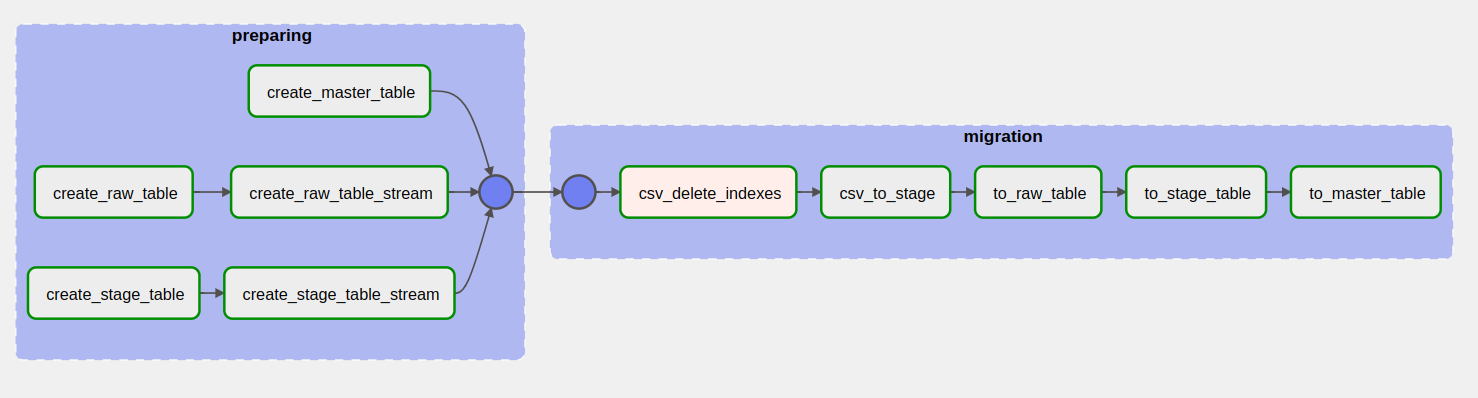
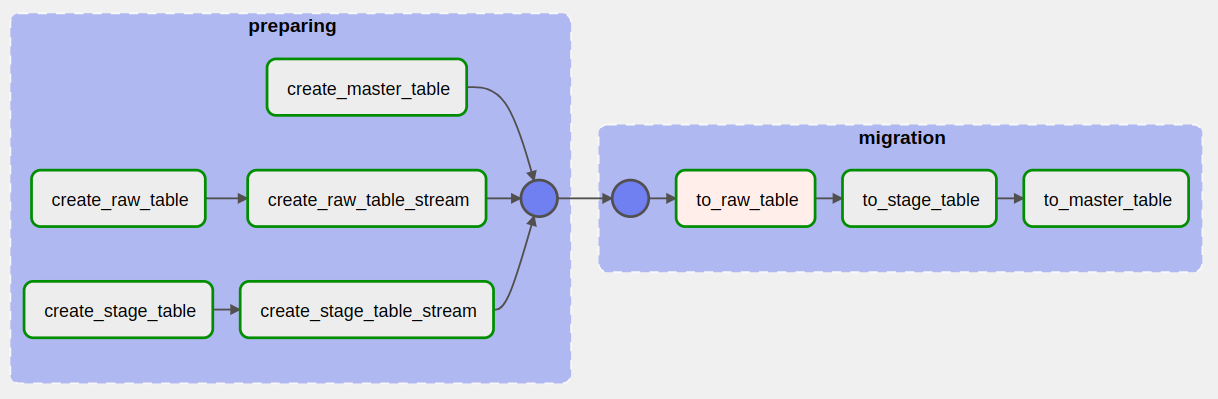
Refactoring

Changed region(s): [[0.0, 0.0302, 0.9984, 0.9648], [0.6552, 0.3015, 0.8112, 0.3618], [0.5928, 0.3015, 0.624, 0.3317]]

diff --git a/task8/dags/dag_migration_with_csv.py b/task8/dags/dag_migration_with_csv.py
@@ -1,0 +1,117 @@
+import pandas as pd
+
+from airflow.models import Variable
+from datetime import datetime
+from airflow.decorators import dag, task
+from airflow.utils.task_group import TaskGroup
+from airflow.providers.snowflake.operators.snowflake import SnowflakeOperator
+
+
+AIRFLOW_HOME = Variable.get("AIRFLOW_HOME")
+RAW_DATA_FILE = Variable.get("RAW_DATA_FILE")
+OUTPUT_FILE = Variable.get("OUTPUT_FILE")
+DATA_PATH = Variable.get("DATA_PATH")
+DDL_PATH = Variable.get("DDL_PATH")
+DML_PATH = Variable.get("DML_PATH")
+
+SNOWFLAKE_CONN_ID = Variable.get("SNOWFLAKE_CONN_ID")
+SNOWFLAKE_SCHEMA = Variable.get("SNOWFLAKE_SCHEMA")
+SNOWFLAKE_DATABASE = Variable.get("SNOWFLAKE_DATABASE")
+SNOWFLAKE_ROLE = Variable.get("SNOWFLAKE_ROLE")
+
+default_args = {
+    "owner": "airflow",
+    "start_date": datetime(2023, 5, 4),
+    "retries": 1,
+    "snowflake_conn_id": SNOWFLAKE_CONN_ID
+}
+
+
+@dag(start_date=datetime(2023, 5, 4), schedule="@once", default_args=default_args)
+def dag_data_migration_csv():
+    def query_string(filename: str) -> str:
+        """
+        Return string of sql query.
+        :param filename: str
+        :return: str
+        """
+        if filename.lower().startswith("create"):
+            file_path = f"{DDL_PATH}/{filename}"
+        elif filename.lower().startswith("insert"):
+            file_path = f"{DML_PATH}/{filename}"
+        with open(file_path, 'r') as f:
+            query = f.read()
+        return query
+
+    with TaskGroup(group_id='preparing') as preparing:
+        create_raw_table = SnowflakeOperator(
+            task_id="create_raw_table",
+            sql=query_string("create_raw_table.sql"),
+        )
+
+        create_stage_table = SnowflakeOperator(
+            task_id="create_stage_table",
+            sql=query_string("create_stage_table.sql"),
+        )
+
+        create_master_table = SnowflakeOperator(
+            task_id="create_master_table",
+            sql=query_string("create_master_table.sql")
+        )
+
+        create_raw_table_stream = SnowflakeOperator(
+            task_id="create_raw_table_stream",
+            sql=query_string("create_raw_stream.sql")
+        )
+
+        create_stage_table_stream = SnowflakeOperator(
+            task_id="create_stage_table_stream",
+            sql=query_string("create_stage_stream.sql")
+        )
+
+        create_format_csv = SnowflakeOperator (
+            task_id = 'create_format_csv',
+            sql=query_string('create_file_format_updated_csv.sql')
+        )
+
+        create_raw_table >> create_raw_table_stream
+        create_stage_table >> create_stage_table_stream
+        create_master_table
+        create_format_csv
+
+    with TaskGroup(group_id='migration') as migration:
+        @task
+        def csv_change_format():
+            """
+            Change format file in source file
+            :return: None
+            """
+            df = pd.read_csv(f"{DATA_PATH}/{RAW_DATA_FILE}", index_col=False)
+            df.to_csv(f"{DATA_PATH}/{OUTPUT_FILE}", index=False, sep='^', lineterminator='\t')
+
+        csv_to_stage = SnowflakeOperator(
+            task_id="csv_to_stage",
+            sql=f"PUT file://{DATA_PATH}/{OUTPUT_FILE} @%RAW_TABLE OVERWRITE = TRUE;"
+        )
+
+        to_raw_table = SnowflakeOperator(
+            task_id="to_raw_table",
+            sql=f"COPY INTO RAW_TABLE FROM @%RAW_TABLE/{OUTPUT_FILE}.gz FILE_FORMAT = ( FORMAT_NAME = UPDATED_FORMAT_CSV') ON_ERROR = CONTINUE;"
+        )
+
+        to_stage_table = SnowflakeOperator(
+            task_id="to_stage_table",
+            sql=query_string("insert_to_stage_table.sql"),
+        )
+
+        to_master_table = SnowflakeOperator(
+            task_id="to_master_table",
+            sql=query_string("insert_to_master_table.sql"),
+        )
+
+        csv_change_format() >> csv_to_stage >> to_raw_table >> to_stage_table >> to_master_table
+
+    preparing >> migration
+
+
+dag_data_migration_csv()

diff --git a/task8/dags/dag_migration_with_pandas.py b/task8/dags/dag_migration_with_pandas.py
@@ -1,12 +1,13 @@
-import os
-import sys
 import pandas as pd
 
 from airflow.models import Variable
-from datetime import datetime, timedelta
-from airflow.decorators import dag, task_group, task
+from datetime import datetime
+from airflow.decorators import dag, task
 from airflow.utils.task_group import TaskGroup
 from airflow.providers.snowflake.operators.snowflake import SnowflakeOperator
+from airflow.providers.snowflake.hooks.snowflake import SnowflakeHook
+from snowflake.connector.pandas_tools import write_pandas
+
 
 AIRFLOW_HOME = Variable.get("AIRFLOW_HOME")
 RAW_DATA_FILE = Variable.get("RAW_DATA_FILE")
@@ -29,7 +30,7 @@ default_args = {
 
 
 @dag(start_date=datetime(2023, 5, 4), schedule="@once", default_args=default_args)
-def dag_data_migration():
+def dag_data_migration_pandas():
     def query_string(filename: str) -> str:
         if filename.lower().startswith("create"):
             file_path = f"{DDL_PATH}/{filename}"
@@ -71,19 +72,12 @@ def dag_data_migration():
 
     with TaskGroup(group_id='migration') as migration:
         @task
-        def csv_delete_indexes():
+        def to_raw_table():
             df = pd.read_csv(f"{DATA_PATH}/{RAW_DATA_FILE}", index_col=False)
-            df.to_csv(f"{DATA_PATH}/{OUTPUT_FILE}", index=False, sep=';')
-
-        csv_to_stage = SnowflakeOperator(
-            task_id="csv_to_stage",
-            sql=f"PUT file://{DATA_PATH}/{OUTPUT_FILE} @%RAW_TABLE OVERWRITE = TRUE;"
-        )
-
-        to_raw_table = SnowflakeOperator(
-            task_id="to_raw_table",
-            sql=f"COPY INTO RAW_TABLE FROM @%RAW_TABLE/data_without_indexes.csv.gz FILE_FORMAT = (TYPE = CSV COMPRESSION=GZIP SKIP_HEADER=1 FIELD_DELIMITER=';') ON_ERROR = CONTINUE;"
-        )
+            df.columns = df.columns.str.upper()
+            dwh_hook = SnowflakeHook(snowflake_conn_id=SNOWFLAKE_CONN_ID)
+            conn = dwh_hook.get_conn()
+            write_pandas(conn, df, 'RAW_TABLE')
 
         to_stage_table = SnowflakeOperator(
             task_id="to_stage_table",
@@ -95,9 +89,9 @@ def dag_data_migration():
             sql=query_string("insert_to_master_table.sql"),
         )
 
-        csv_delete_indexes() >> csv_to_stage >> to_raw_table >> to_stage_table >> to_master_table
+        to_raw_table() >> to_stage_table >> to_master_table
 
     preparing >> migration
 
 
-dag_data_migration()
+dag_data_migration_pandas()

diff --git a/task8/README.md b/task8/README.md
@@ -8,17 +8,29 @@ Build an ELT pipeline based on Snowflake using Airflow (local). The overall desi
 
 ## Result
 
-Dag_data_migration consist of:
+1. [Dag_migration_with_pandas](dags%2Fdag_migration_with_pandas.py) consist of:
 
-![img.png](images/img.png)
+![img.png](images%2Fimg.png)
 
-The structure in the Data warehouse:  
+The structure database is:  
 
-![img_2.png](images/img_2.png)
+![img_2.png](images%2Fimg_2.png)
 
 IOS_APPS/PUBLIC/MASTER_TABLE:
 
-![img_3.png](images/img_3.png)
+![img_4.png](images%2Fimg_4.png)
+   
+2. [Dag_migration_with_csv](dags%2Fdag_migration_with_csv.py)
+
+![img_5.png](images%2Fimg_5.png)
+   
+The structure database is:
+
+![img_1.png](images%2Fimg_1.png)
+
+IOS_APPS/PUBLIC/MASTER_TABLE:
+
+![img_3.png](images%2Fimg_3.png)
 
 ## Preparing
 
@@ -88,4 +100,4 @@ Role: YOUR_ROLE
 
 Upload ```config.json``` with your values.
 
-![img_1.png](images/img_1.png)
+![img_8.png](images%2Fimg_8.png)
